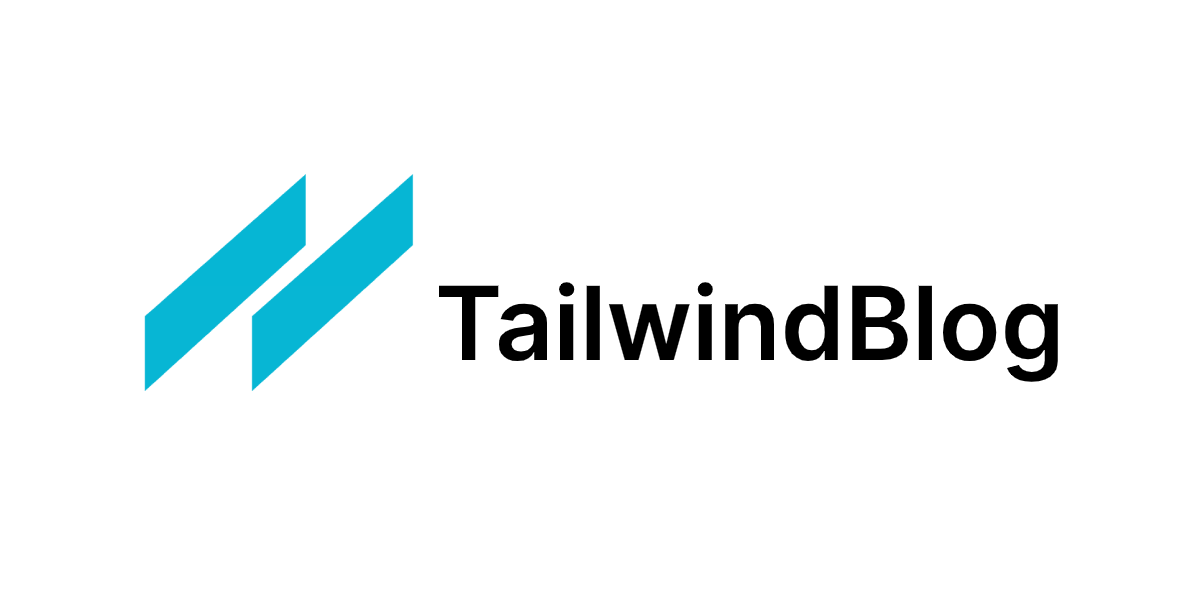
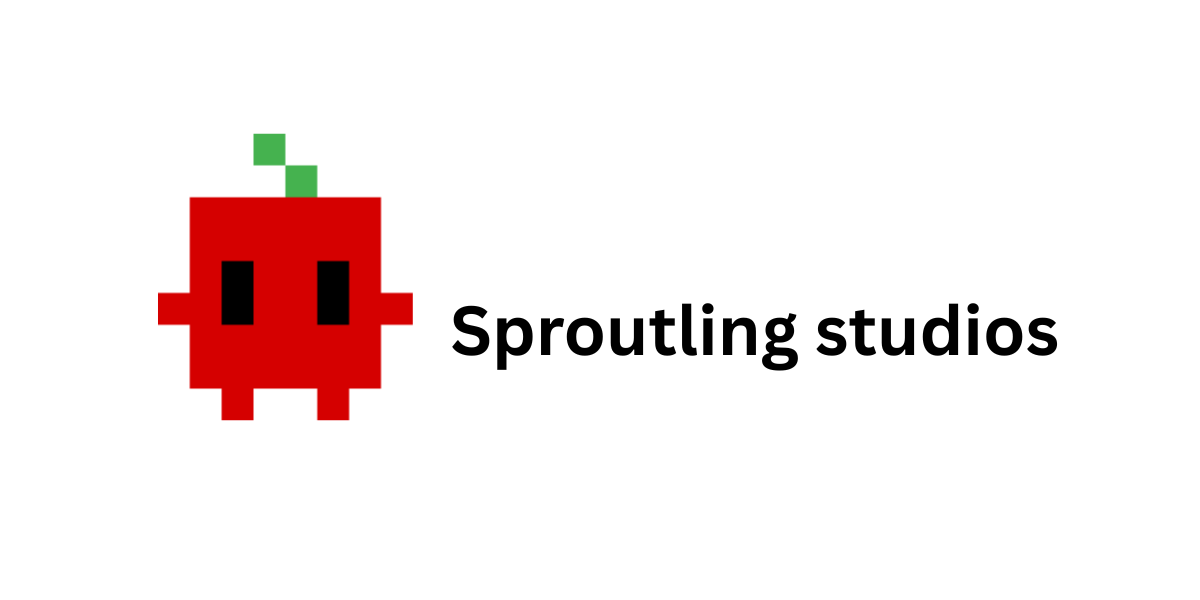
Patch 18

Changed region(s): [[0.0925, 0.21, 0.8942, 0.72]]

diff --git a/app/Main.tsx b/app/Main.tsx
@@ -9,6 +9,7 @@ const MAX_DISPLAY = 2
 export default function Home({ posts }) {
   return (
     <>
+    <br />
       <div className="container">
         <div className="max-w-3xl">
           <h1 className="text-3xl leading-9 font-extrabold tracking-tight text-gray-900 sm:text-4xl sm:leading-10 md:text-6xl md:leading-14 dark:text-gray-100">
@@ -32,6 +33,7 @@ export default function Home({ posts }) {
           </div>
         </div>
       </div>
+      <br />
       <div className="divide-y divide-gray-200 dark:divide-gray-700">
         <div className="space-y-2 pt-6 pb-8 md:space-y-5">
           <h1 className="text-3xl leading-9 font-extrabold tracking-tight text-gray-900 sm:text-4xl sm:leading-10 md:text-6xl md:leading-14 dark:text-gray-100">
@@ -134,6 +136,7 @@ export default function Home({ posts }) {
           </a>
         </div>
       </section>
+      <br />
       {siteMetadata.newsletter?.provider && (
         <div className="flex items-center justify-center pt-4">
           <NewsletterForm />

diff --git a/components/Footer.tsx b/components/Footer.tsx
@@ -20,7 +20,7 @@ export default function Footer() {
           <SocialIcon kind="medium" href={siteMetadata.medium} size={6} />
         </div>
         <div className="mb-2 flex space-x-2 text-sm text-gray-500 dark:text-gray-400">
-          <div>{siteMetadata.author}</div>
+          <div><a href="https://theavian.is-a.dev/">Theavian</a></div>
           <div>{` • `}</div>
           <div>{`© ${new Date().getFullYear()}`}</div>
           <div>{` • `}</div>